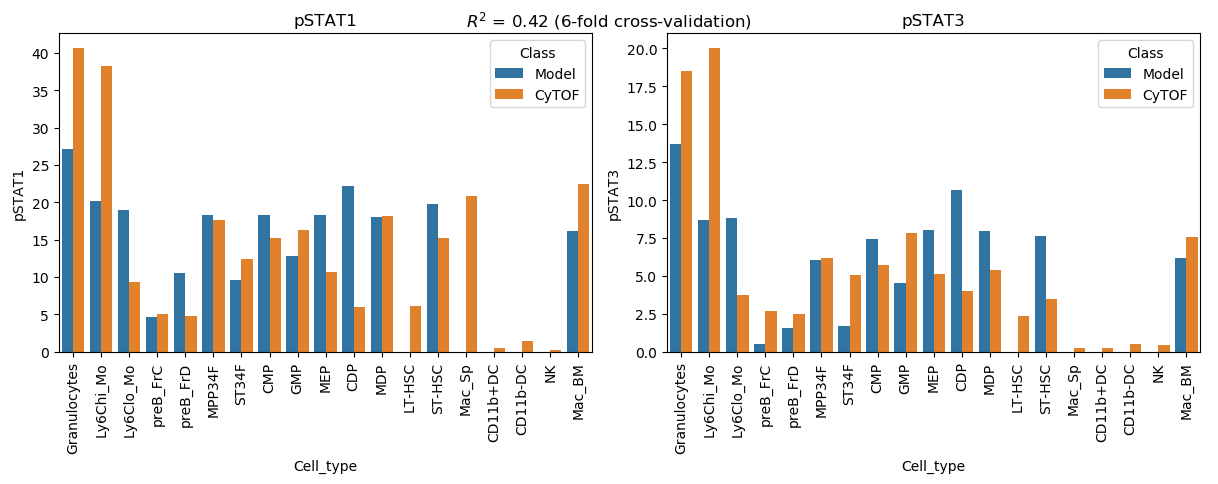
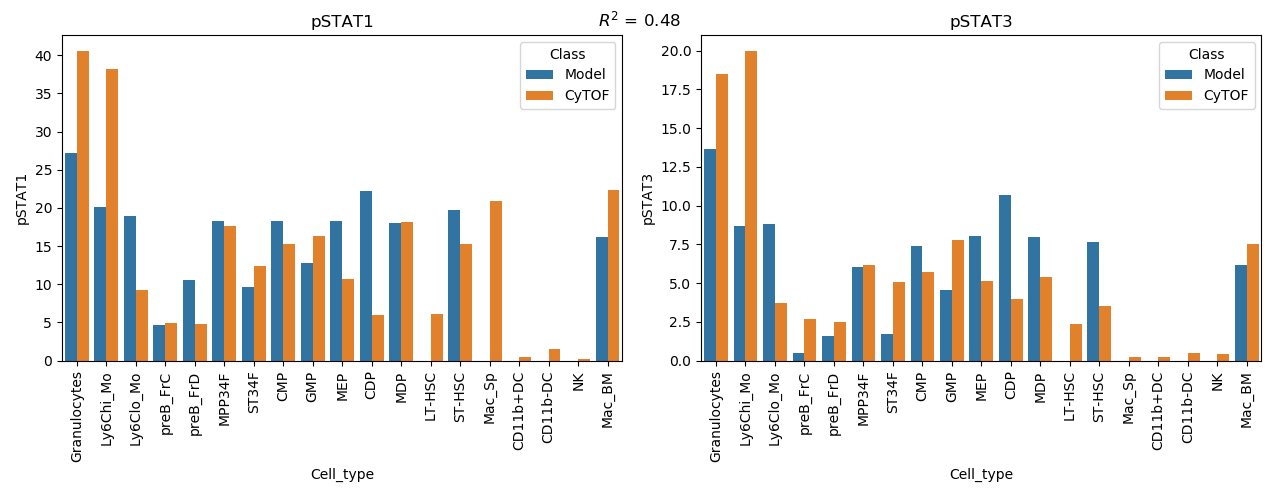
Fixed bug in cross-fold validation

diff --git a/ifnscripts/NIH/equilibrium_STAT_model.py b/ifnscripts/NIH/equilibrium_STAT_model.py
@@ -277,10 +277,9 @@ def k_fold_cross_validate_SOCS_model(k=10, df=ImmGen_df, neg_feedback_name='SOCS
     :param df: (DataFrame) combined predictor and response variables
     :return r2, r2_variance: (floats) the estimated R^2 value and variance in the estimate
     """
-    kf = KFold(n_splits=k, shuffle=True, random_state=2)
-    result = next(kf.split(df), None)
+    kf = KFold(n_splits=k, shuffle=True, random_state=1)
     r2_samples = []
-    for i in range(k):
+    for result in kf.split(df):
         # Split data
         train = df.iloc[result[0]]
         test = df.iloc[result[1]]
@@ -299,6 +298,7 @@ def k_fold_cross_validate_SOCS_model(k=10, df=ImmGen_df, neg_feedback_name='SOCS
         ss_tot = np.sum((test[['pSTAT1', 'pSTAT3']].values-np.mean(test[['pSTAT1', 'pSTAT3']].values))**2)
         r_squared = 1 - (ss_res / ss_tot)
         r2_samples.append(r_squared)
+
     return np.mean(r2_samples), np.var(r2_samples)
 
 # Fit
@@ -384,9 +384,9 @@ def fit_with_SOCS(df=ImmGen_df, k_fold=1):
 
 if __name__ == "__main__":
     # Check variance in predictors
-    # df = ImmGen_df[response_variable_names + predictor_variable_names]
-    # print(pd.Series(np.diag(df.cov().values), index=df.columns))
+    #df = ImmGen_df[response_variable_names + predictor_variable_names]
+    #print(pd.Series(np.diag(df.cov().values), index=df.columns))
 
     #pairwise_correlation()
-    
-    fit_with_SOCS(k_fold=6)
+
+    fit_with_SOCS()
